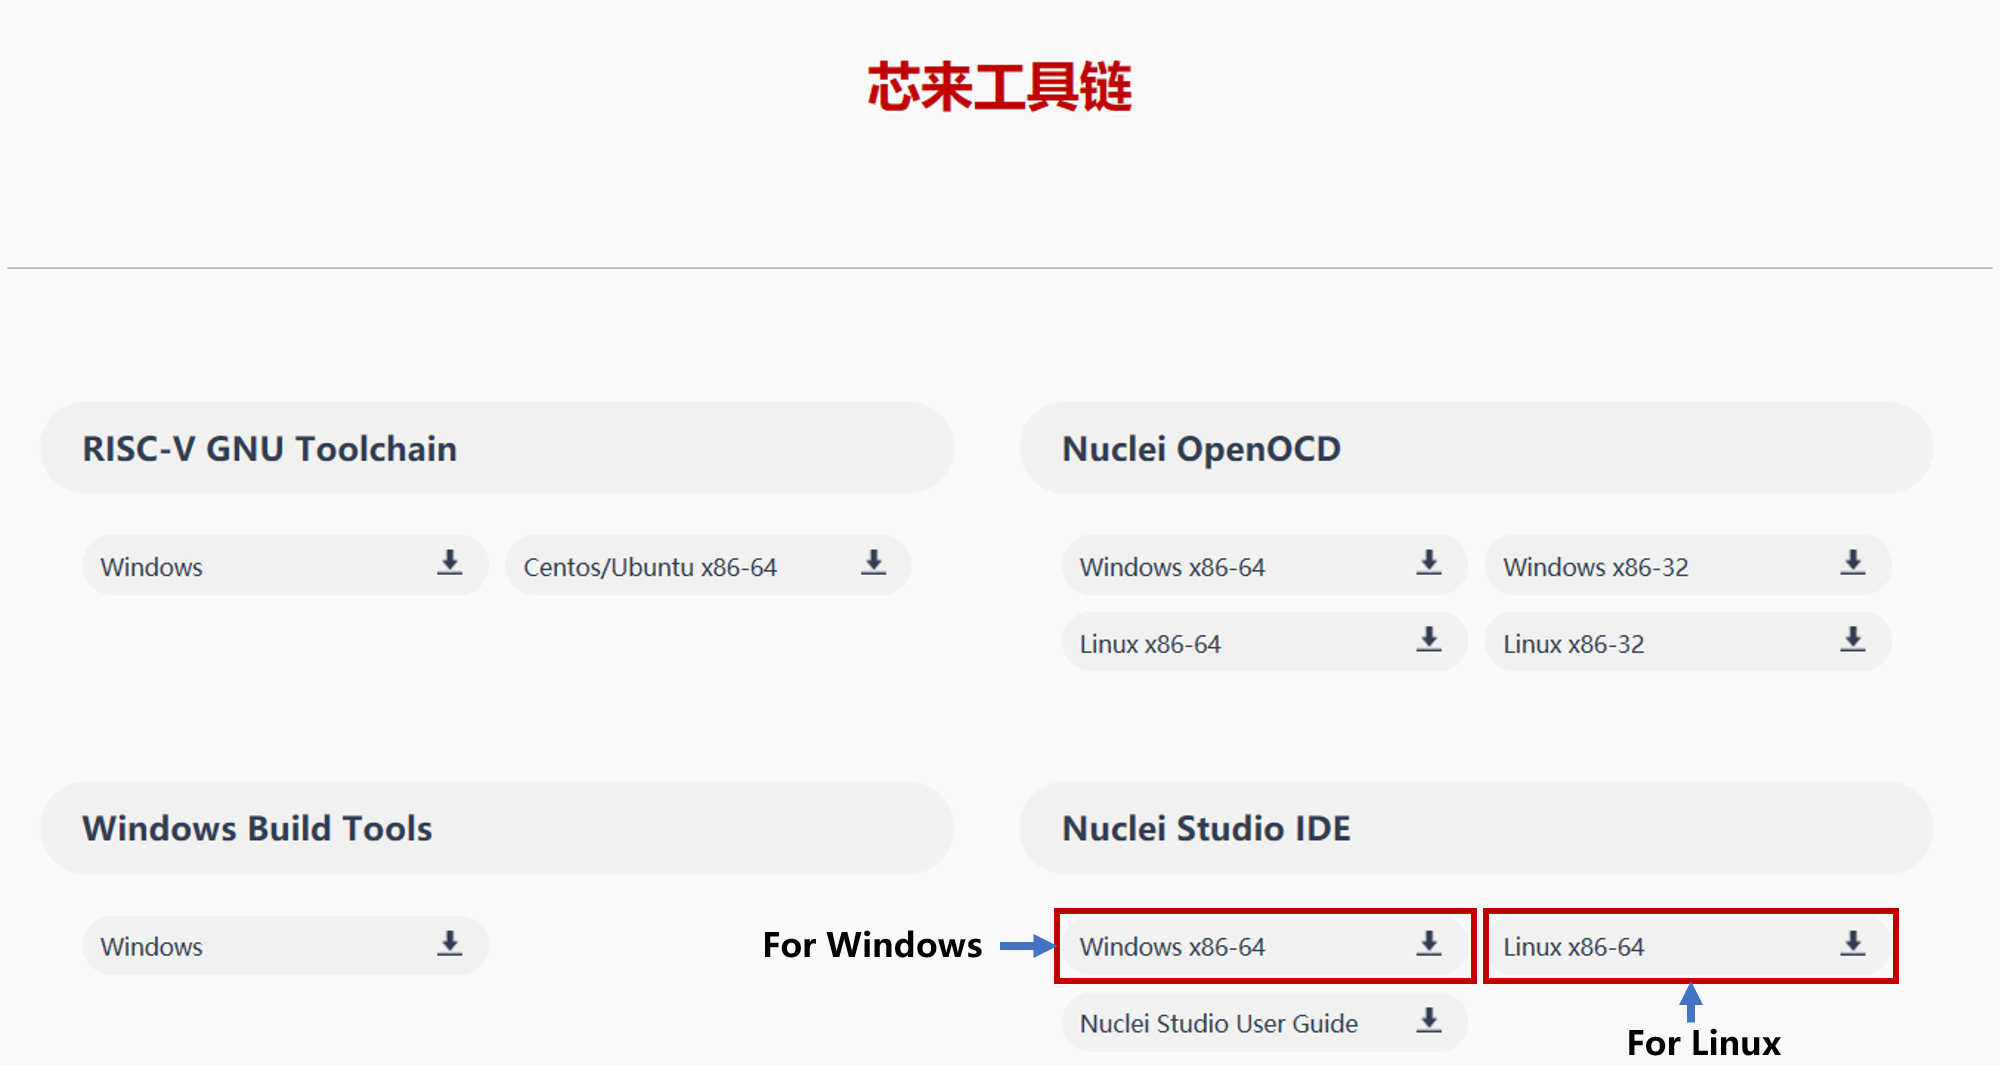
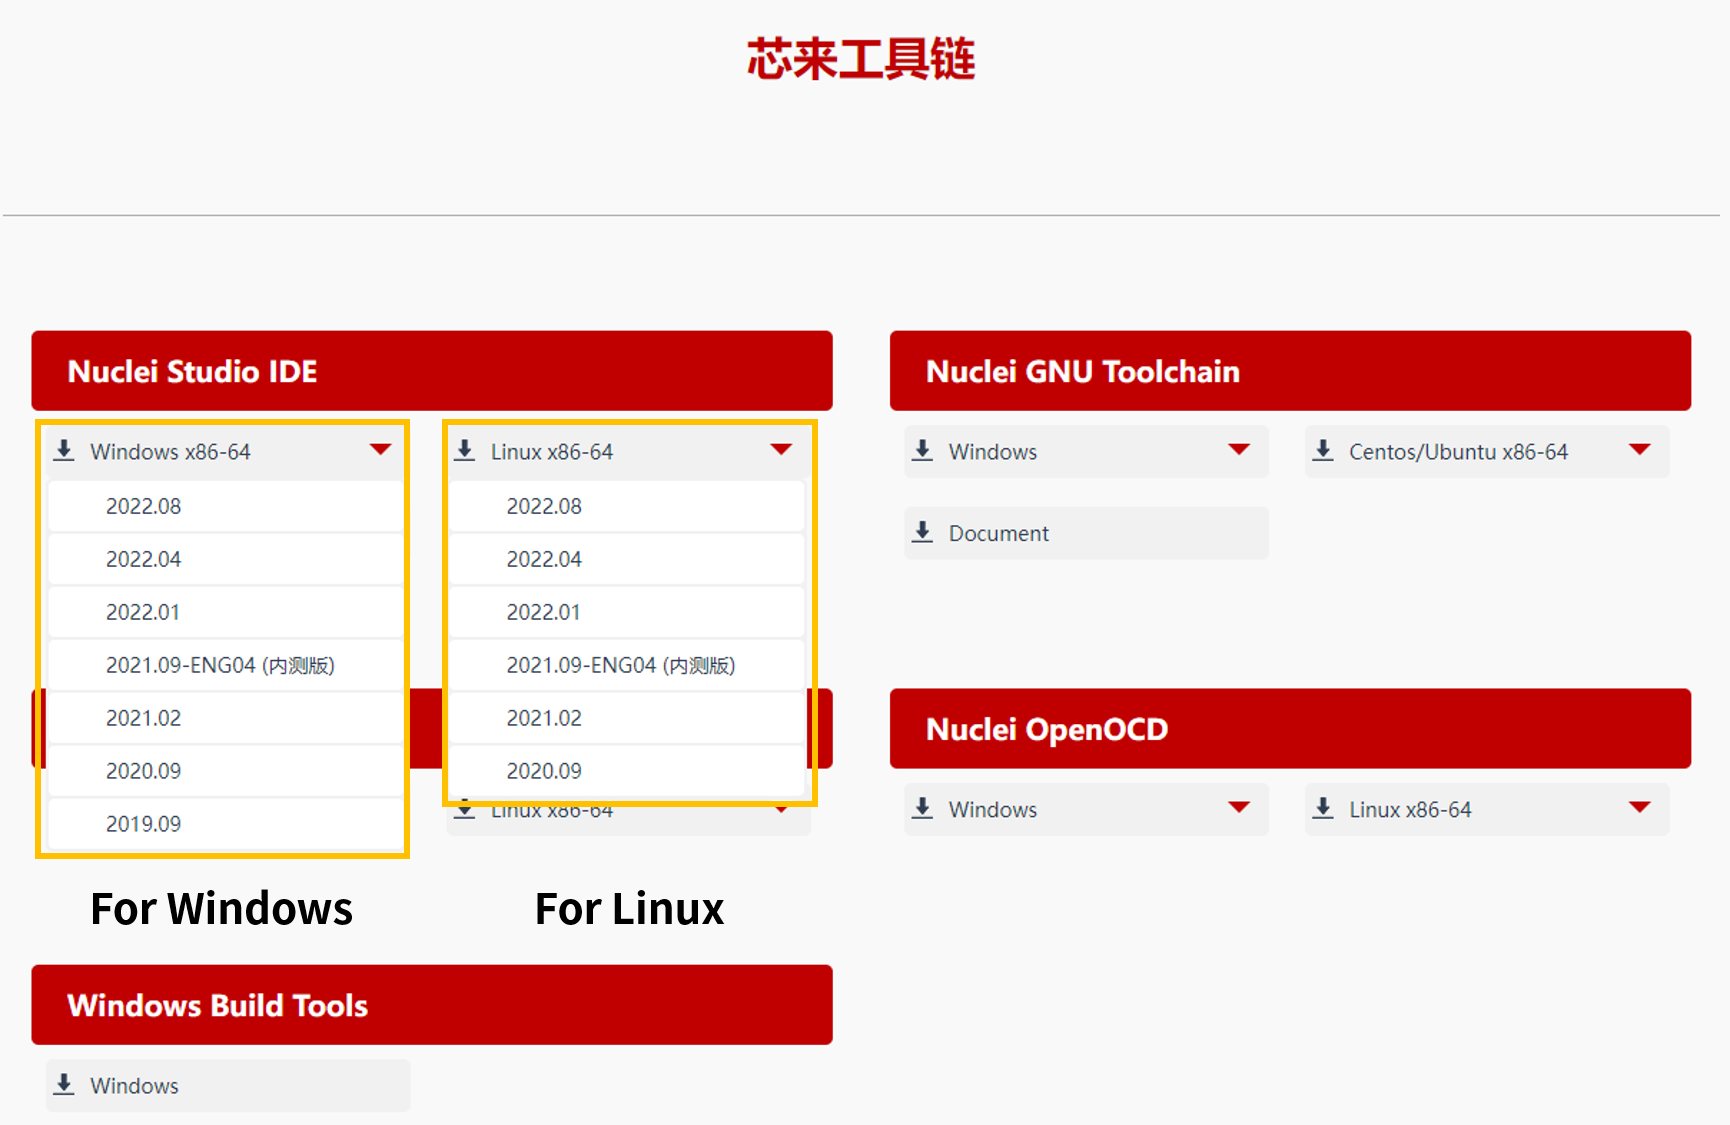
doc: add descriptions for Hbirdv2 development with Nuclei Studio(NPK supported)

diff --git a/doc/source/quick_start/sdk.rst b/doc/source/quick_start/sdk.rst
@@ -273,15 +273,9 @@ Run Hello World demo
 
 - Windows
 
-  - Download HBird Debugger Driver for Windows from `Nuclei Development Boards <https://nucleisys.com/developboard.php>`__, as depicted in the figure below.
-  - After getting the package, double-click the **HBird_Driver.exe**.
-  - Since HBird Debugger has the functionality that “convert the UART to USB”, so if you have completed hardware connection as described in **Step1** and installed the driver successfully, then you will be able to see a USB Serial Port (e.g., COM8) show up in your Windows Device Manager.
+  - HBird Debugger could be used without any driver installation in Windows.
 
-  .. figure:: /asserts/medias/sdk_fig9.jpg
-     :width: 800
-     :alt: sdk_fig9
-  
-     Download HBird Debugger Driver for Windows
+  - Since HBird Debugger has the functionality that “convert the UART to USB”, so if you have completed hardware connection as described in **Step1**, then you will be able to see a USB Serial Port (e.g., COM8) show up in your Windows Device Manager.
 
 - Linux
 

diff --git a/doc/source/quick_start/index.rst b/doc/source/quick_start/index.rst
@@ -10,5 +10,6 @@ Quick Start
    mcs.rst
    sdk.rst
    ide.rst
+   ide_latest.rst
    
    